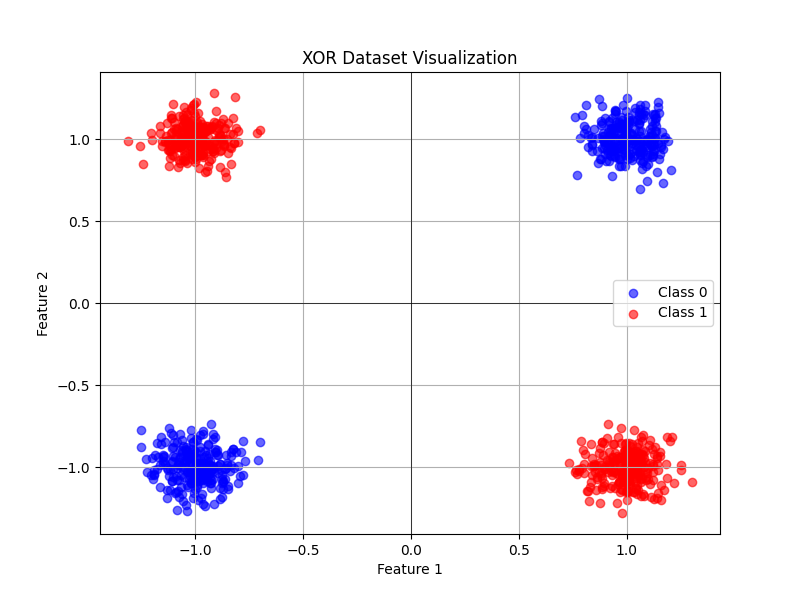
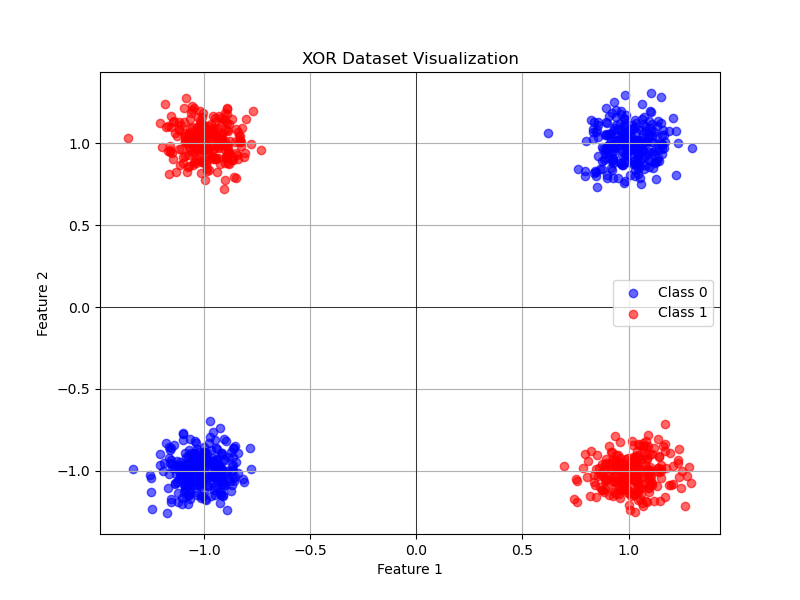
minimal processing

diff --git a/jax_min.py b/jax_min.py
@@ -1,0 +1,167 @@
+import jax
+import jax.numpy as jnp
+import optax
+from jax import jit, vmap, lax
+import neat_core
+import datasets
+
+ACTS = {
+    "relu": jax.nn.relu, "tanh": jnp.tanh, "sigmoid": jax.nn.sigmoid, 
+    "id": lambda x: x, "sin": jnp.sin, "abs": jnp.abs, "square": jnp.square
+}
+
+def get_predict_fn(g):
+    in_ids = sorted([n.id for n in g.nodes.values() if n.type == 'in'])
+    
+    # CRITICAL FIX: Explicitly process Hidden nodes BEFORE Output nodes
+    h_nodes = sorted([n for n in g.nodes.values() if n.type == 'hid'], key=lambda x: x.id)
+    o_nodes = sorted([n for n in g.nodes.values() if n.type == 'out'], key=lambda x: x.id)
+    exec_order = h_nodes + o_nodes
+    
+    # Map connections for fast lookup
+    conn_map = {}
+    for c in g.conns.values():
+        if c.enabled:
+            conn_map.setdefault(c.out_id, []).append((c.in_id, c.weight))
+
+    def predict(vals, x):
+        # Initialize inputs
+        activations = {i: x[k] for k, i in enumerate(in_ids)}
+        
+        for n in exec_order:
+            # Sum inputs: bias + sum(weight * input_val)
+            total = vals['b'].get(n.id, 0.0)
+            if n.id in conn_map:
+                total += sum(w * activations.get(src, 0.0) for src, w in conn_map[n.id])
+            
+            activations[n.id] = ACTS[n.activation](total)
+            
+        return jnp.array([activations[n.id] for n in o_nodes])
+    
+    return predict
+
+# 3. High-Performance Training Loop (using lax.scan)
+def train_genome(g, X, y, steps, lr):
+    # 1. Extract Keys for Trainable Parameters
+    # We only care about ENABLED connections
+    w_keys = [k for k, c in g.conns.items() if c.enabled]
+    if not w_keys: return g, 0.5 # Dead network
+
+    # 2. Create a Fast Lookup: Innovation Number -> Array Index
+    # This fixes the error by avoiding c.id and using the dict key instead
+    w_key_to_idx = {k: i for i, k in enumerate(w_keys)}
+    
+    # 3. Extract Biases
+    p_b = {n.id: n.bias for n in g.nodes.values() if n.type != 'in'}
+    b_keys = list(p_b.keys())
+    b_key_to_idx = {k: i for i, k in enumerate(b_keys)}
+
+    # 4. Build Topology Map using the Lookup
+    # Map: Node_ID -> List of (Input_Node_ID, Weight_Array_Index)
+    topo_map = {}
+    for k, c in g.conns.items():
+        if c.enabled:
+            # Use the key 'k' to find the index, not c.id
+            w_idx = w_key_to_idx[k] 
+            topo_map.setdefault(c.out_id, []).append((c.in_id, w_idx))
+
+    # 5. JAX Data Prep
+    w_init = jnp.array([g.conns[k].weight for k in w_keys])
+    b_init = jnp.array([g.nodes[k].bias for k in b_keys])
+    
+    # Topology execution order
+    in_ids = sorted([n.id for n in g.nodes.values() if n.type == 'in'])
+    h_nodes = sorted([n for n in g.nodes.values() if n.type == 'hid'], key=lambda x: x.id)
+    o_nodes = sorted([n for n in g.nodes.values() if n.type == 'out'], key=lambda x: x.id)
+    exec_order = h_nodes + o_nodes
+
+    # 6. The Fast JAX Predict Function
+    def fast_predict(params, x):
+        ws, bs = params 
+        activations = {i: x[k] for k, i in enumerate(in_ids)}
+        
+        for n in exec_order:
+            # Retrieve bias
+            b_idx = b_key_to_idx.get(n.id)
+            if b_idx is not None:
+                total = bs[b_idx]
+            else:
+                total = 0.0
+            
+            # Sum connections
+            if n.id in topo_map:
+                for src, w_idx in topo_map[n.id]:
+                    total += ws[w_idx] * activations.get(src, 0.0)
+            
+            activations[n.id] = ACTS[n.activation](total)
+            
+        return jnp.array([activations[n.id] for n in o_nodes])
+
+    # 7. Optimizer & Loop
+    opt = optax.adam(lr)
+    
+    @jit
+    def run_scan(params_tuple, key):
+        opt_state = opt.init(params_tuple)
+        
+        def update_step(carry, _):
+            curr_p, curr_opt, k = carry
+            k, subk = jax.random.split(k)
+            # Random batch of 32
+            idx = jax.random.randint(subk, (32,), 0, len(X))
+            bx, by = X[idx], y[idx]
+            
+            def loss(p_input):
+                preds = jnp.squeeze(vmap(fast_predict, (None, 0))(p_input, bx))
+                # Safe log to prevent NaN
+                return -jnp.mean(by * jnp.log(preds+1e-7) + (1-by) * jnp.log(1-preds+1e-7))
+            
+            l, grads = jax.value_and_grad(loss)(curr_p)
+            updates, new_opt = opt.update(grads, curr_opt)
+            new_p = optax.apply_updates(curr_p, updates)
+            return (new_p, new_opt, k), None
+
+        (final_p, _, _), _ = lax.scan(update_step, (params_tuple, opt_state, key), None, length=steps)
+        return final_p
+
+    # 8. Run Training
+    final_ws, final_bs = run_scan((w_init, b_init), jax.random.PRNGKey(0))
+
+    # 9. Write Back to Genome
+    for i, k in enumerate(w_keys): g.conns[k].weight = float(final_ws[i])
+    for i, k in enumerate(b_keys): g.nodes[k].bias = float(final_bs[i])
+
+    # 10. Final Evaluation
+    final_preds = jnp.squeeze(vmap(fast_predict, (None, 0))((final_ws, final_bs), X))
+    acc = jnp.mean(jnp.round(final_preds) == jnp.squeeze(y))
+    
+    return g, float(acc)
+
+# 4. Minimal Main
+if __name__ == "__main__":
+    X, y = datasets.make_circle(n=1000, noise=0.1)
+    # Ensure Float32 for JAX
+    X, y = jnp.array(X, dtype=jnp.float32), jnp.array(y, dtype=jnp.float32)
+
+    pop = neat_core.NEATPop(2, 1, pop_size=100, compat_threshold=3.0)
+    # Force sigmoid output for classification
+    for g in pop.genomes: g.nodes[2].activation = "sigmoid"
+
+    for gen in range(20):
+        results = []
+        for g in pop.genomes:
+            g, fit = train_genome(g, X, y, steps=500, lr=0.02)
+            # Complexity penalty
+            adj_fit = fit - (len(g.conns)*0.01)
+            results.append((g, fit, adj_fit))
+        
+        results.sort(key=lambda x: x[2], reverse=True)
+        best, best_fit, _ = results[0]
+        print(f"Gen {gen} | Best: {best_fit:.2%}")
+        
+        if best_fit > 0.99: break
+        
+        pop._next_generation([r[1] for r in results], elite=0.1, m_add_conn=0.5, m_add_node=0.2)
+
+    print(f"Done. Best: {best_fit:.2%}")
+    neat_core.save_genome(best, "best_genome.json")

diff --git a/datasets.py b/datasets.py
@@ -1,54 +1,28 @@
 import numpy as np
 
-def make_circle(n=1000, r=3.0, noise=0.4, seed=0):
-    rng = np.random.default_rng(seed)
+def make_circle(n=1000, r=3.0, noise=0.4):
+    rng = np.random.default_rng()
     X = rng.uniform(-5, 5, size=(n, 2))
     y = (np.linalg.norm(X, axis=1) > r).astype(np.int32)
     X += rng.normal(0, noise, X.shape)
     return X, y
 
-def make_spiral(n=2000, noise=0.2, seed=0):
-    rng = np.random.default_rng(seed)
-    n2 = n // 2
-    theta = np.sqrt(rng.random(n2)) * 3 * np.pi
+def make_spiral(n=2000, noise=0.2):
+    y = np.repeat([0, 1], n // 2)
+    
+    theta = np.sqrt(np.random.rand(n)) * 3 * np.pi
     r = 2 * theta
-    X1 = np.c_[r*np.cos(theta), r*np.sin(theta)] + rng.normal(scale=noise, size=(n2, 2))
-    X2 = np.c_[-r*np.cos(theta), -r*np.sin(theta)] + rng.normal(scale=noise, size=(n2, 2))
-    X = np.vstack([X1, X2])
-    y = np.array([0]*n2 + [1]*n2)
-    X = (X - X.mean(0)) / (X.std(0) + 1e-8)
-    return X, y 
+    
+    rotation = theta + (y * np.pi)
+    
+    X = np.c_[r * np.cos(rotation), r * np.sin(rotation)]
+    X += np.random.randn(n, 2) * noise
+    
+    return X, y
 
 def make_xor(n=100, noise=0.1):
-    """
-    Generates a 2D XOR dataset.
-    n: total number of samples (will be divided by 4)
-    noise: std deviation of Gaussian noise added to the points
-    """
-    n_per_quad = int(np.ceil(n / 4))
-    n_total = n_per_quad * 4
-    
-    X = np.zeros((n_total, 2))
-    y = np.zeros(n_total, dtype=int)
-    
-    quads = [
-        ([1, 1], 0),   # Top-right, class 0
-        ([-1, 1], 1),  # Top-left, class 1
-        ([-1, -1], 0), # Bottom-left, class 0
-        ([1, -1], 1)   # Bottom-right, class 1
-    ]
-    
-    idx = 0
-    for (center, label) in quads:
-        points = np.random.randn(n_per_quad, 2) * noise + center
-        X[idx:idx + n_per_quad] = points
-        y[idx:idx + n_per_quad] = label
-        idx += n_per_quad
-        
-    # Shuffle the data
-    indices = np.arange(n_total)
-    np.random.shuffle(indices)
-    X = X[indices]
-    y = y[indices]
-    
+    X = np.random.randn(n, 2) * noise
+    centers = np.random.choice([-1, 1], size=(n, 2))
+    X += centers
+    y = (centers[:, 0] != centers[:, 1]).astype(int)
     return X, y

diff --git a/xorvisual.py b/xorvisual.py
@@ -2,17 +2,12 @@ import matplotlib.pyplot as plt
 import numpy as np
 import datasets
 
-# Generate the XOR data
-X_data, y_data = datasets.make_xor(n=1000, noise=0.1)
+X_data, y_data = datasets.make_xor_min(n=1000, noise=0.1)
 
-# Create the scatter plot
 plt.figure(figsize=(8, 6))
-# Plot points with label 0 (class 0) as blue
 plt.scatter(X_data[y_data == 0, 0], X_data[y_data == 0, 1], c='blue', label='Class 0', alpha=0.6)
-# Plot points with label 1 (class 1) as red
 plt.scatter(X_data[y_data == 1, 0], X_data[y_data == 1, 1], c='red', label='Class 1', alpha=0.6)
 
-# Add titles and labels
 plt.title('XOR Dataset Visualization')
 plt.xlabel('Feature 1')
 plt.ylabel('Feature 2')
@@ -21,7 +16,6 @@ plt.grid(True)
 plt.axhline(0, color='black', linewidth=0.5)
 plt.axvline(0, color='black', linewidth=0.5)
 
-# Save the plot
 plt.savefig('xor_data_visualization.png')
 
 print("XOR data visualization saved to xor_data_visualization.png")

diff --git a/jax_run.py b/jax_run.py
@@ -185,8 +185,8 @@ def plot_decision_boundary(ax, genome, X_data_plot, y_data_plot, title):
     ax.set_xlabel("Feature 1")
     ax.set_ylabel("Feature 2")
     ax.grid(True)
-    ax.set_xlim([-2.5, 2.5])
-    ax.set_ylim([-2.5, 2.5])
+    ax.set_xlim([-6, 6])
+    ax.set_ylim([-6, 6])
 
 def plot_live_update(fig, gen, best_genome_for_plot, second_best_genome_for_plot, random_genome_for_plot, 
                      X_data_plot, y_data_plot, best_hist, avg_hist, best_raw_fitness_for_plot):
@@ -350,7 +350,7 @@ if __name__ == "__main__":
     
     print(f"JAX devices: {jax.devices()}")
     
-    X_data_plot, y_data_plot = datasets.make_xor(n=1000, noise=0.1)
+    X_data_plot, y_data_plot = datasets.make_circle(n=1000, noise=0.1)
     
     X_train = jnp.array(X_data_plot, dtype=jnp.float32)
     y_train = jnp.array(y_data_plot, dtype=jnp.float32).reshape(-1, 1)

diff --git a/.github/copilot-instructions.md b/.github/copilot-instructions.md
@@ -1,0 +1,60 @@
+# Copilot / AI agent instructions — NEAT_new
+
+Purpose: quickly orient an AI coding assistant to be productive in this repository.
+
+Key points
+- Architecture: This repo implements NEAT (NeuroEvolution of Augmenting Topologies) with JAX-accelerated training. Core responsibilities are split between:
+  - `neat_core.py`: data structures and evolutionary logic (Genome, Node, Conn, `NEATPop`, serialization via `save_genome`).
+  - `jax_min.py` and `jax_run.py`: JAX-based training loops that convert the object-based genome into flat parameter arrays for fast training (uses `jax`, `jax.numpy`, `optax`, `vmap`, `lax.scan`).
+  - `backprop_neat_jax.py` / `backprop_neat_jax_gpu.py`: alternate training workflows (CPU / GPU variants).
+  - `datasets.py`: synthetic datasets (e.g., circle, xor) used by training scripts.
+  - `train.py`, `play.py`, `visualize.py`, `xorvisual.py`: user-facing runners and visualizers.
+
+Data model conventions
+- Genomes are Python objects with `nodes` and `conns` dictionaries (keys are identifiers/innovation numbers). Node objects include `id`, `type` (`'in'|'hid'|'out'`), `activation`, and `bias`. Connection objects include `in_id`, `out_id`, `weight`, and `enabled`.
+- When converting to JAX arrays, code expects:
+  - `w_keys` (list of enabled connection dict keys) used to build `w_init` (weights array).
+  - `w_key_to_idx` mapping from dict key -> index in the weight array (important: use the dict key, not `c.id` in some places).
+  - `b_keys` and `b_key_to_idx` for biases.
+  - A topology map `topo_map` mapping `out_node_id -> list[(src_node_id, weight_array_index)]` used at inference time.
+
+JAX & training specifics (what to watch for)
+- Use `jnp.array(..., dtype=jnp.float32)` for inputs/labels to avoid dtype issues.
+- PRNGs: training loops use `jax.random.PRNGKey` and split keys in `lax.scan` — keep deterministic seeding in mind when testing.
+- `vmap` and `lax.scan` are used heavily. When editing `fast_predict` / `train_genome`, preserve shapes so `vmap` maps over the batch dimension correctly.
+- Optimizers use `optax` (e.g., `optax.adam`). Gradients are computed with `jax.value_and_grad` on functions that accept JAX arrays/tuples (e.g., `(weights, biases)`).
+- Watch for the explicit execution order: hidden nodes are processed before output nodes (see `exec_order = h_nodes + o_nodes`) — changing that changes semantics.
+
+Project-specific conventions and pitfalls
+- Use the connection dict key (the map key in `g.conns`) for indexing weight arrays — several files convert keys -> indices; avoid using `c.id` in places where the dict key is used as the 'innovation number'.
+- Biases are stored per-node and converted into a contiguous `b_init` array using `b_keys`; b_keys order matters for write-back.
+- Enabled-only: training pipelines filter `g.conns` to only enabled connections; disabled conns are ignored (and may lead to 'dead' networks if none enabled).
+- For classification experiments, some scripts explicitly force the output node activation to `sigmoid` (example: `for g in pop.genomes: g.nodes[2].activation = "sigmoid"`). Use this pattern when adding tests that expect probabilities.
+
+Useful entry points / examples (concrete snippets)
+- Train a single genome with the fast JAX trainer (from `jax_min.py`):
+  - `g, fit = train_genome(g, X, y, steps=500, lr=0.02)`
+  - `final_preds = jnp.squeeze(vmap(fast_predict, (None, 0))((final_ws, final_bs), X))`
+- Evolution loop pattern (in `jax_min.py` main):
+  - Build `NEATPop`, set output activation, call `train_genome` for each genome, compute adjusted fitness, sort, then `pop._next_generation([r[1] for r in results], elite=0.1, m_add_conn=0.5, m_add_node=0.2)`.
+- Serializing: `neat_core.save_genome(best, "best_genome.json")` — inspect these files to understand persisted schema.
+
+Developer workflows
+- Run a trainer locally: `python jax_min.py` (or `python train.py` for other experiments). Use the GPU variant if you have JAX with GPU: `python backprop_neat_jax_gpu.py`.
+- Quick debug: add concise `print()` statements for small test genomes, or run a minimal example with a single genome to inspect `w_keys`, `w_key_to_idx`, `topo_map` shapes before full training.
+- When changing shapes or JAX code, run small, deterministic inputs (e.g., `X, y = datasets.make_circle(n=100, noise=0.1)` and `steps=10`) to catch shape/dtype errors quickly.
+
+Files to inspect when making changes
+- `neat_core.py` — genome representation, population evolution, mutation/crossover.
+- `jax_min.py` — compact, high-performance training; good reference for correct array mapping and `lax.scan` usage.
+- `backprop_neat_jax.py` / `_gpu.py` — alternate training strategies and GPU notes.
+- `datasets.py` — data generators used across scripts.
+
+When in doubt
+- Follow the existing pattern: convert object graphs -> flat arrays -> index maps -> JAX functions. Changing the indexing logic is the most common source of bugs.
+
+If you want more
+- Tell me which area to expand (e.g., detailed doc for `neat_core.Genome` schema, or annotated walkthrough of `train_genome` in `jax_min.py`) and I will extend this file.
+
+---
+Generated by an AI agent to help contributors and other assistants onboard rapidly.
